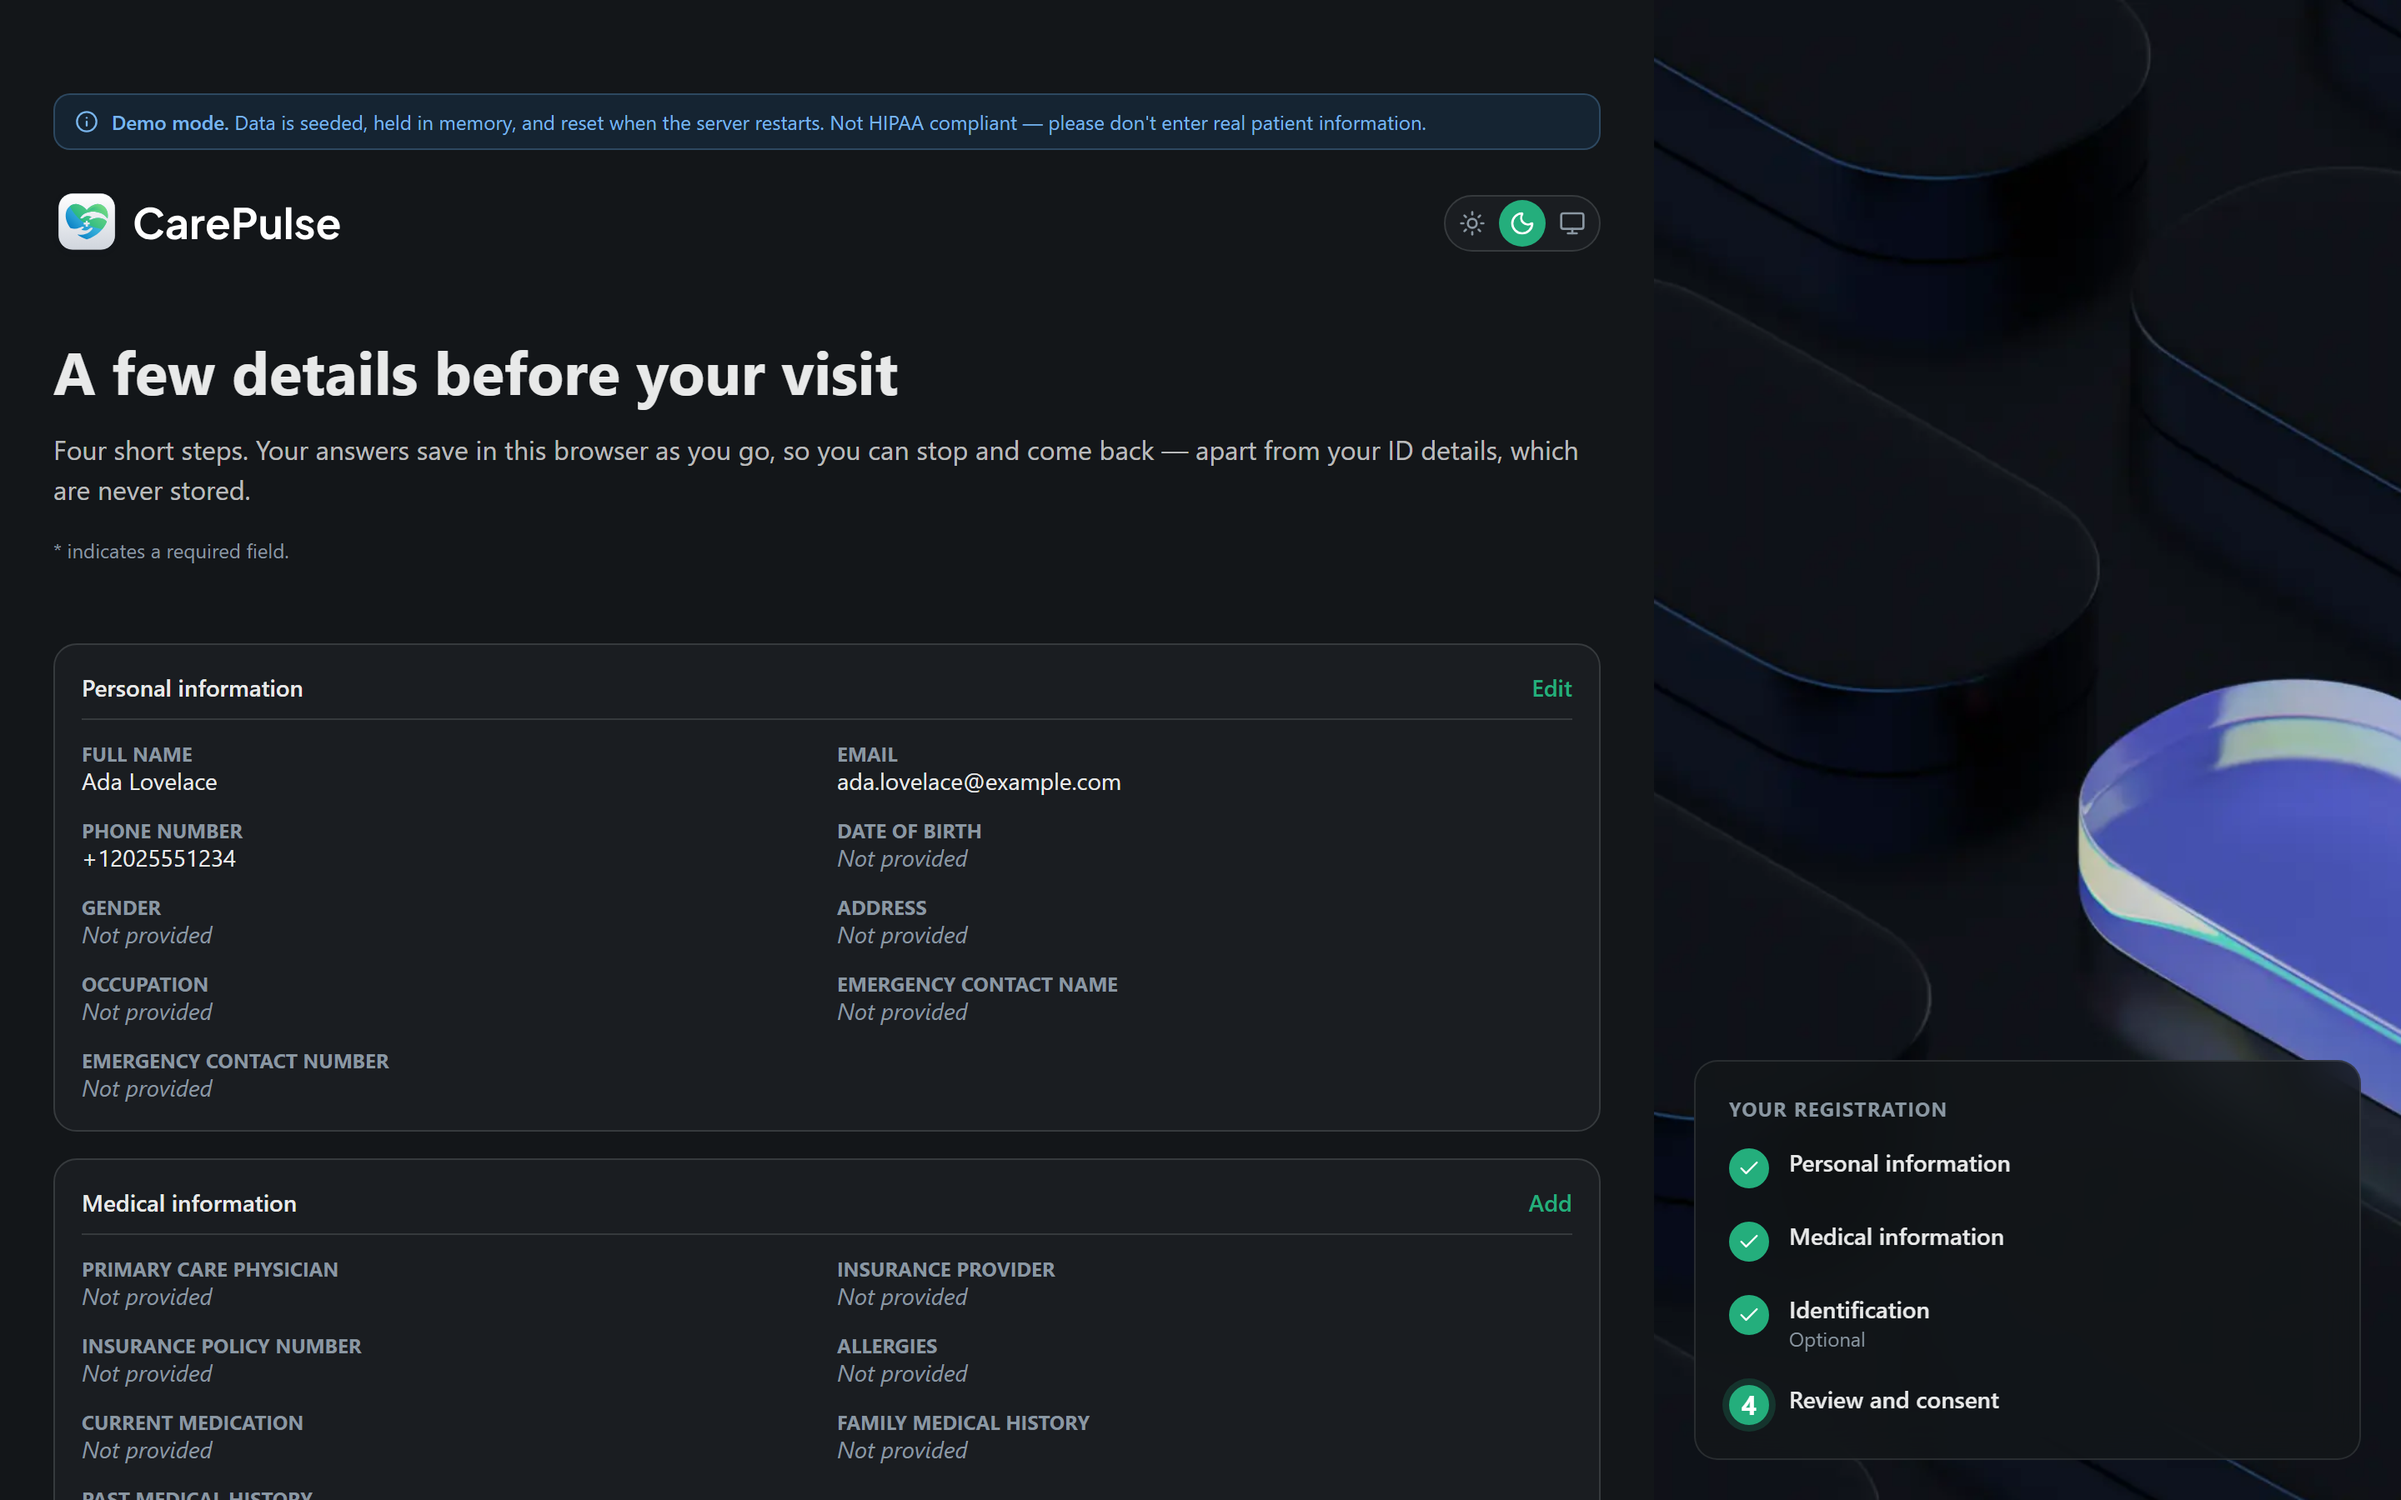
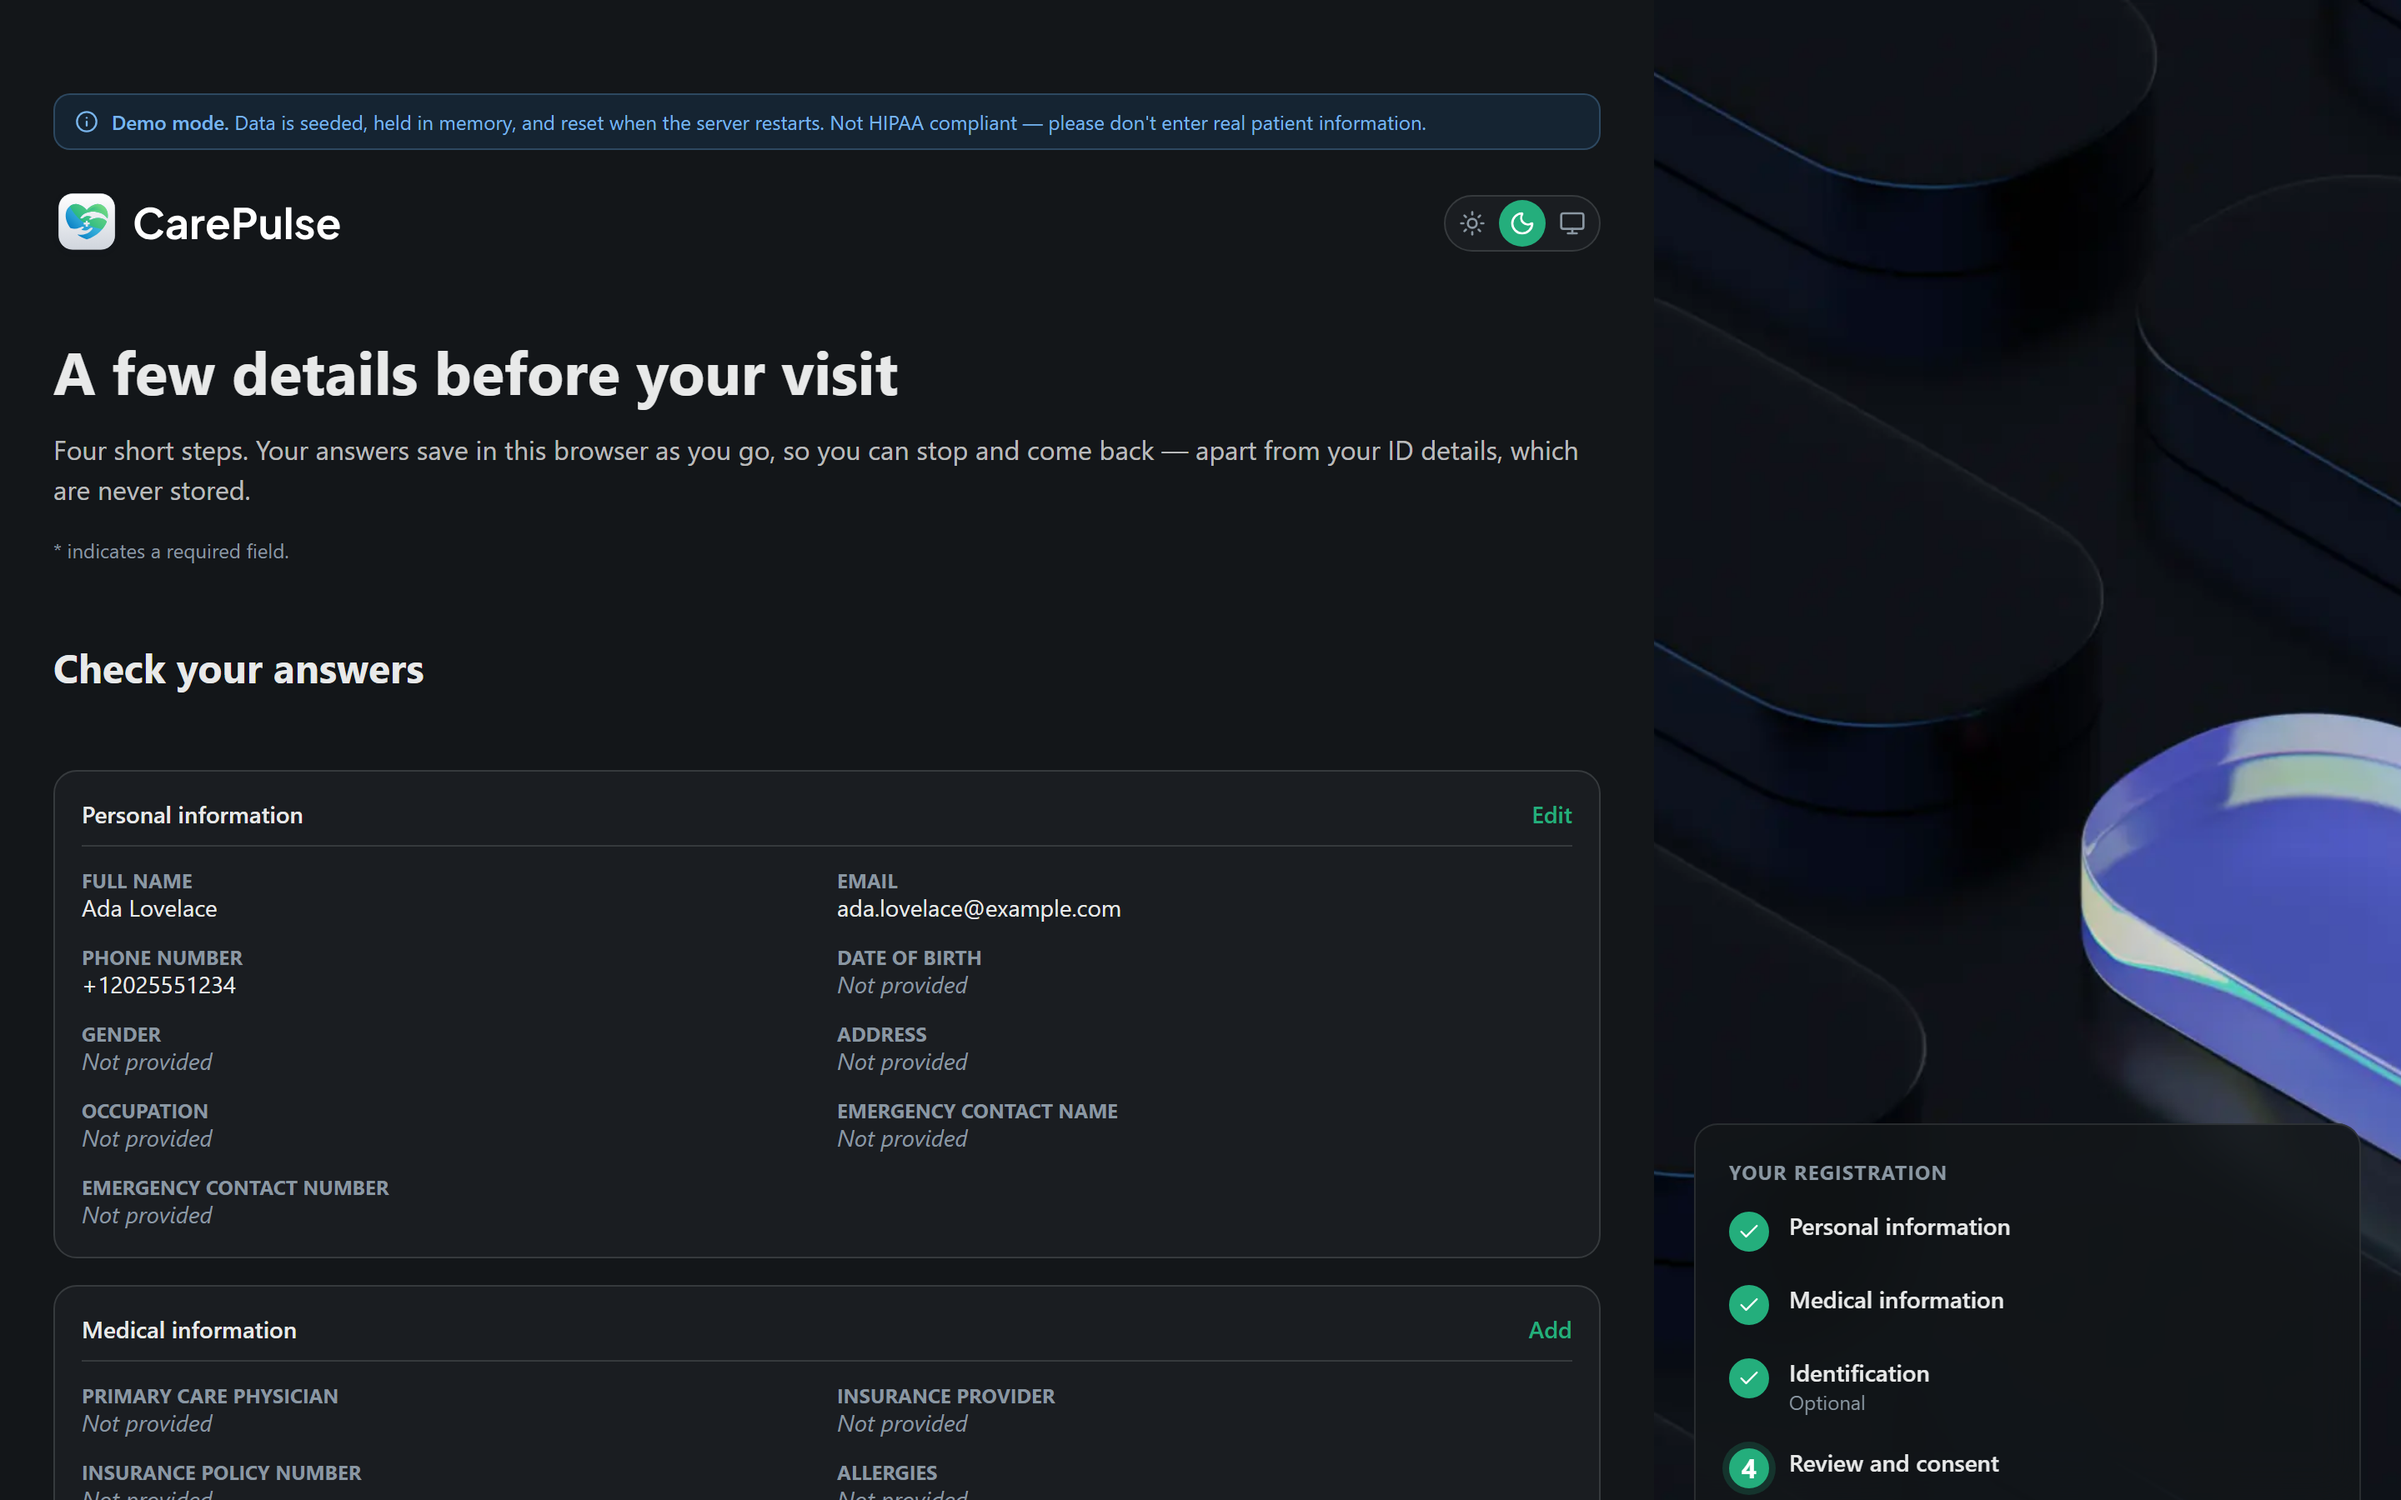
fix(register): land focus above the review summary
Focusing the "Consent and privacy" heading on step 4 put focus below all
three of RegisterReview's summary sections, so a screen-reader user reading
forward from focus reached the consent checkboxes and reviewed nothing
before agreeing to it — worse than the <body> drop this focus behaviour
replaced, since <body> at least reads forward through the summary first.

Give the review step its own "Check your answers" heading above the
summary and move headingRef there, matching every other step, which already
gets a heading of its own.

Also hoist FormErrorSummary's focusedForAttempt.current update above the
names.length guard, so a failed submit with no fieldErrors (toast-only)
still marks its attempt as seen. Left un-hoisted, the next unrelated field
error created by live revalidation (once isSubmitted is true) looked like a
fresh attempt and yanked focus to the summary mid-correction.

Names the React-batching dependency the step-change/failed-attempt
"changed together" inference rests on, in a comment only.

diff --git a/tests/register-form-focus-and-gating.test.tsx b/tests/register-form-focus-and-gating.test.tsx
@@ -119,6 +119,32 @@ describe("FormErrorSummary gating (I-1)", () => {
       screen.getByRole("heading", { name: "Personal information" }),
     ).toBeInTheDocument();
   });
+
+  it("moves focus to the summary again on a second failed Continue", async () => {
+    renderStep1();
+
+    const continueButton = screen.getByRole("button", { name: /^continue$/i });
+    fireEvent.click(continueButton);
+
+    const heading = await screen.findByText(/answers? need.? your attention/i);
+    const summary = heading.closest("[aria-labelledby]");
+    expect(summary).not.toBeNull();
+    await waitFor(() => expect(summary).toHaveFocus());
+
+    // Move focus away, the way a user re-reading the form would, before
+    // trying "Continue" again with nothing fixed.
+    const address = screen.getByLabelText(/^address/i);
+    address.focus();
+    expect(address).toHaveFocus();
+
+    // Still empty, so this fails for the same reason as the first attempt —
+    // and, unlike an attempt with nothing to focus (see
+    // `form-error-summary.test.tsx`), this one has plenty to focus, so the
+    // hoisted `focusedForAttempt.current` update must not suppress the
+    // second focus move.
+    fireEvent.click(continueButton);
+    await waitFor(() => expect(summary).toHaveFocus());
+  });
 });
 
 describe("focus follows the step (I-2)", () => {
@@ -141,6 +167,45 @@ describe("focus follows the step (I-2)", () => {
       name: "Medical information",
     });
     await waitFor(() => expect(medicalHeading).toHaveFocus());
+  });
+
+  it("lands focus above the review summary, not below it, when arriving at the review step", async () => {
+    render(
+      <NuqsTestingAdapter searchParams="?step=identification">
+        <RegisterWizardProvider user={emptyUser}>
+          <RegisterForm />
+        </RegisterWizardProvider>
+      </NuqsTestingAdapter>,
+    );
+
+    // "Skip this step" — like a successful "Continue" — calls `setStep`
+    // directly with no `recordFailedAttempt`, so this is the ordinary
+    // step-change path the heading-focus effect exists for, not the
+    // failed-submit routing path exercised below.
+    fireEvent.click(screen.getByRole("button", { name: /skip this step/i }));
+
+    // Proof `RegisterReview` actually mounted on this step, not just that
+    // *some* heading exists.
+    const summaryHeading = await screen.findByRole("heading", {
+      name: "Personal information",
+    });
+
+    await waitFor(() => {
+      expect(document.activeElement).not.toBe(document.body);
+    });
+    const focused = document.activeElement as Node;
+
+    // Document order, not identity: focus must land *before* the summary,
+    // so a screen reader reading forward from focus meets the summary
+    // before the consent checkboxes below it. Focusing the "Consent and
+    // privacy" heading — which sits after all three summary sections —
+    // would still be *a* heading gaining focus, so only checking identity
+    // or `toHaveFocus()` against the wrong node would not catch that;
+    // `compareDocumentPosition` is what actually proves the ordering.
+    expect(
+      focused.compareDocumentPosition(summaryHeading) &
+        Node.DOCUMENT_POSITION_FOLLOWING,
+    ).toBeTruthy();
   });
 
   it("focuses the error summary, not the routed-to step's heading, when a failed submit routes there", async () => {

diff --git a/components/forms/RegisterForm.tsx b/components/forms/RegisterForm.tsx
@@ -95,9 +95,14 @@ export default function RegisterForm() {
   const formRef = useRef<HTMLFormElement>(null);
 
   // The current step's own heading, so focus can follow the content instead
-  // of dropping to <body> — see the effect below. Only one step's <h2> (or,
-  // on the review step, the consent section's) is ever mounted at a time, so
-  // one ref shared across all of them is safe.
+  // of dropping to <body> — see the effect below. On the review step this is
+  // deliberately its own heading placed above `RegisterReview`, not the
+  // "Consent and privacy" heading further down: that heading sits below
+  // three summary sections, so focusing it would drop a screen-reader user
+  // reading forward straight past the entire summary and into the consent
+  // checkboxes — never encountering what they are being asked to consent
+  // to. Only one step's own heading is ever mounted at a time, so one ref
+  // shared across all of them is safe.
   const headingRef = useRef<HTMLHeadingElement>(null);
 
   // The `step`/`failedAttempts` pair last seen by the effect below, so it can
@@ -124,7 +129,13 @@ export default function RegisterForm() {
     // moment later. Inferring that from the two values changing together,
     // rather than a flag one branch sets and this effect clears, is what
     // keeps this safe from a future failure branch that adds a new way to
-    // route without remembering to set such a flag.
+    // route without remembering to set such a flag. That "changing
+    // together" is only observable because React batches
+    // `recordFailedAttempt`'s `useState` update and `setStep`'s nuqs update
+    // into the same commit — nuqs v2's setter is itself a synchronous React
+    // state update, not a separate async navigation — so a routed failed
+    // submit always changes `step` and `failedAttempts` in one render, never
+    // two.
     if (stepChanged && !attemptsChanged) headingRef.current?.focus();
   }, [step, failedAttempts]);
 
@@ -585,17 +596,26 @@ export default function RegisterForm() {
         {/* ------------------------- Review and consent ---------------------- */}
         {step === "review" ? (
           <>
+            {/* The review step's own heading, above the summary rather than
+                folded into the "Consent and privacy" section below it — see
+                the note on `headingRef`. A patient reading forward from here
+                meets what they entered before they meet what they are
+                agreeing to. */}
+            <h2
+              ref={headingRef}
+              tabIndex={-1}
+              className="sub-header text-foreground"
+            >
+              Check your answers
+            </h2>
+
             <RegisterReview />
 
             {/* Distinguishing border/tint so this reads as the action — the
                 thing you actually do on this step — rather than a fourth
                 summary card sitting alongside the ones above it. */}
             <section className="space-y-6 rounded-xl border border-green-500 bg-green-500/5 p-4">
-              <h2
-                ref={headingRef}
-                tabIndex={-1}
-                className="sub-header text-foreground"
-              >
+              <h2 className="sub-header text-foreground">
                 Consent and privacy
               </h2>
 

diff --git a/tests/form-error-summary.test.tsx b/tests/form-error-summary.test.tsx
@@ -127,6 +127,64 @@ describe("FormErrorSummary", () => {
 });
 
 /**
+ * Mirrors `applyServerErrors`'s toast-only branch (no `fieldErrors`): a
+ * failed attempt that leaves `names` at zero even though `failedAttempts`
+ * increments — `RegisterForm` calls `recordFailedAttempt()` unconditionally
+ * on that branch (around line 220 there), not only when there is something
+ * to focus.
+ *
+ * A second, unrelated field then goes invalid *without* a further
+ * `recordFailedAttempt()` call — standing in for the real trigger (an
+ * ordinary edit validating live once `isSubmitted` is true, per
+ * react-hook-form's `reValidateMode` default) without needing to drive an
+ * actual failed submission through `RegisterForm` to get there.
+ */
+function AttemptWithNothingToFocusThenAnUnrelatedFieldError() {
+  const { form, recordFailedAttempt } = useRegisterWizard();
+  const seeded = useRef(false);
+
+  useEffect(() => {
+    if (seeded.current) return;
+    seeded.current = true;
+
+    void (async () => {
+      recordFailedAttempt();
+      await form.trigger("privacyConsent");
+    })();
+  }, [form, recordFailedAttempt]);
+
+  return <FormErrorSummary />;
+}
+
+describe("an attempt with nothing to focus", () => {
+  it("does not steal focus for a later, unrelated field error", async () => {
+    render(
+      <NuqsTestingAdapter searchParams="?step=review">
+        <RegisterWizardProvider user={user}>
+          <AttemptWithNothingToFocusThenAnUnrelatedFieldError />
+        </RegisterWizardProvider>
+      </NuqsTestingAdapter>,
+    );
+
+    // The summary only becomes visible once the unrelated field error
+    // lands — proof `names.length` actually made the 0 -> 1 transition this
+    // test is about, not merely that nothing rendered.
+    const heading = await screen.findByRole("heading", {
+      name: "One answer needs your attention",
+    });
+    const summary = heading.closest("[aria-labelledby]");
+    expect(summary).not.toBeNull();
+
+    // Without hoisting `focusedForAttempt.current`'s update above the
+    // `names.length` guard, this transition reads as "a new attempt just
+    // failed" and steals focus to the summary — even though the attempt
+    // that actually failed had nothing to focus, and this field error is
+    // just an ordinary side effect of the user correcting something else.
+    expect(summary).not.toHaveFocus();
+  });
+});
+
+/**
  * Renders each step's own field the way `RegisterForm` does — conditional on
  * `step`, not always mounted — so `goToField`'s step switch and `setFocus`
  * have a real DOM node to land on instead of nothing.

diff --git a/components/forms/FormErrorSummary.tsx b/components/forms/FormErrorSummary.tsx
@@ -53,6 +53,11 @@ export function FormErrorSummary() {
   // Keyed on `failedAttempts` rather than `form.formState.submitCount` for
   // the same reason the visibility gate above is: a failed "Continue" never
   // touches `submitCount`, and this focus move has to fire for that case too.
+  // Updated whether or not that attempt had anything to focus (see the
+  // effect below) — a failed submit with no `fieldErrors` still increments
+  // `failedAttempts` in `RegisterForm`, and leaving this ref stale for that
+  // attempt would make the very next unrelated field error look like a new
+  // attempt too.
   const focusedForAttempt = useRef(0);
 
   // Filtered to real schema fields, and ordered by the wizard rather than by
@@ -69,10 +74,21 @@ export function FormErrorSummary() {
   );
 
   useEffect(() => {
-    if (names.length === 0 || failedAttempts === focusedForAttempt.current) {
-      return;
-    }
+    if (failedAttempts === focusedForAttempt.current) return;
+    // Marked as seen before the `names.length` check below, and
+    // unconditionally: a failed submit that lands only a toast (no
+    // `fieldErrors` — see `applyServerErrors`) still increments
+    // `failedAttempts` in `RegisterForm` even though there is nothing here to
+    // focus. If this line ran only on the `names.length > 0` branch, that
+    // attempt would never get marked seen — and once `handleSubmit` has set
+    // `isSubmitted`, react-hook-form's `reValidateMode` default validates
+    // every subsequent change live, so the first field error created by an
+    // ordinary edit afterwards (e.g. unticking a consent checkbox) would flip
+    // `names.length` from 0 to 1 and look like that same stale attempt
+    // finally producing something to focus, yanking focus to the summary
+    // away from whatever the user was doing.
     focusedForAttempt.current = failedAttempts;
+    if (names.length === 0) return;
     ref.current?.focus();
   }, [failedAttempts, names.length]);
 
